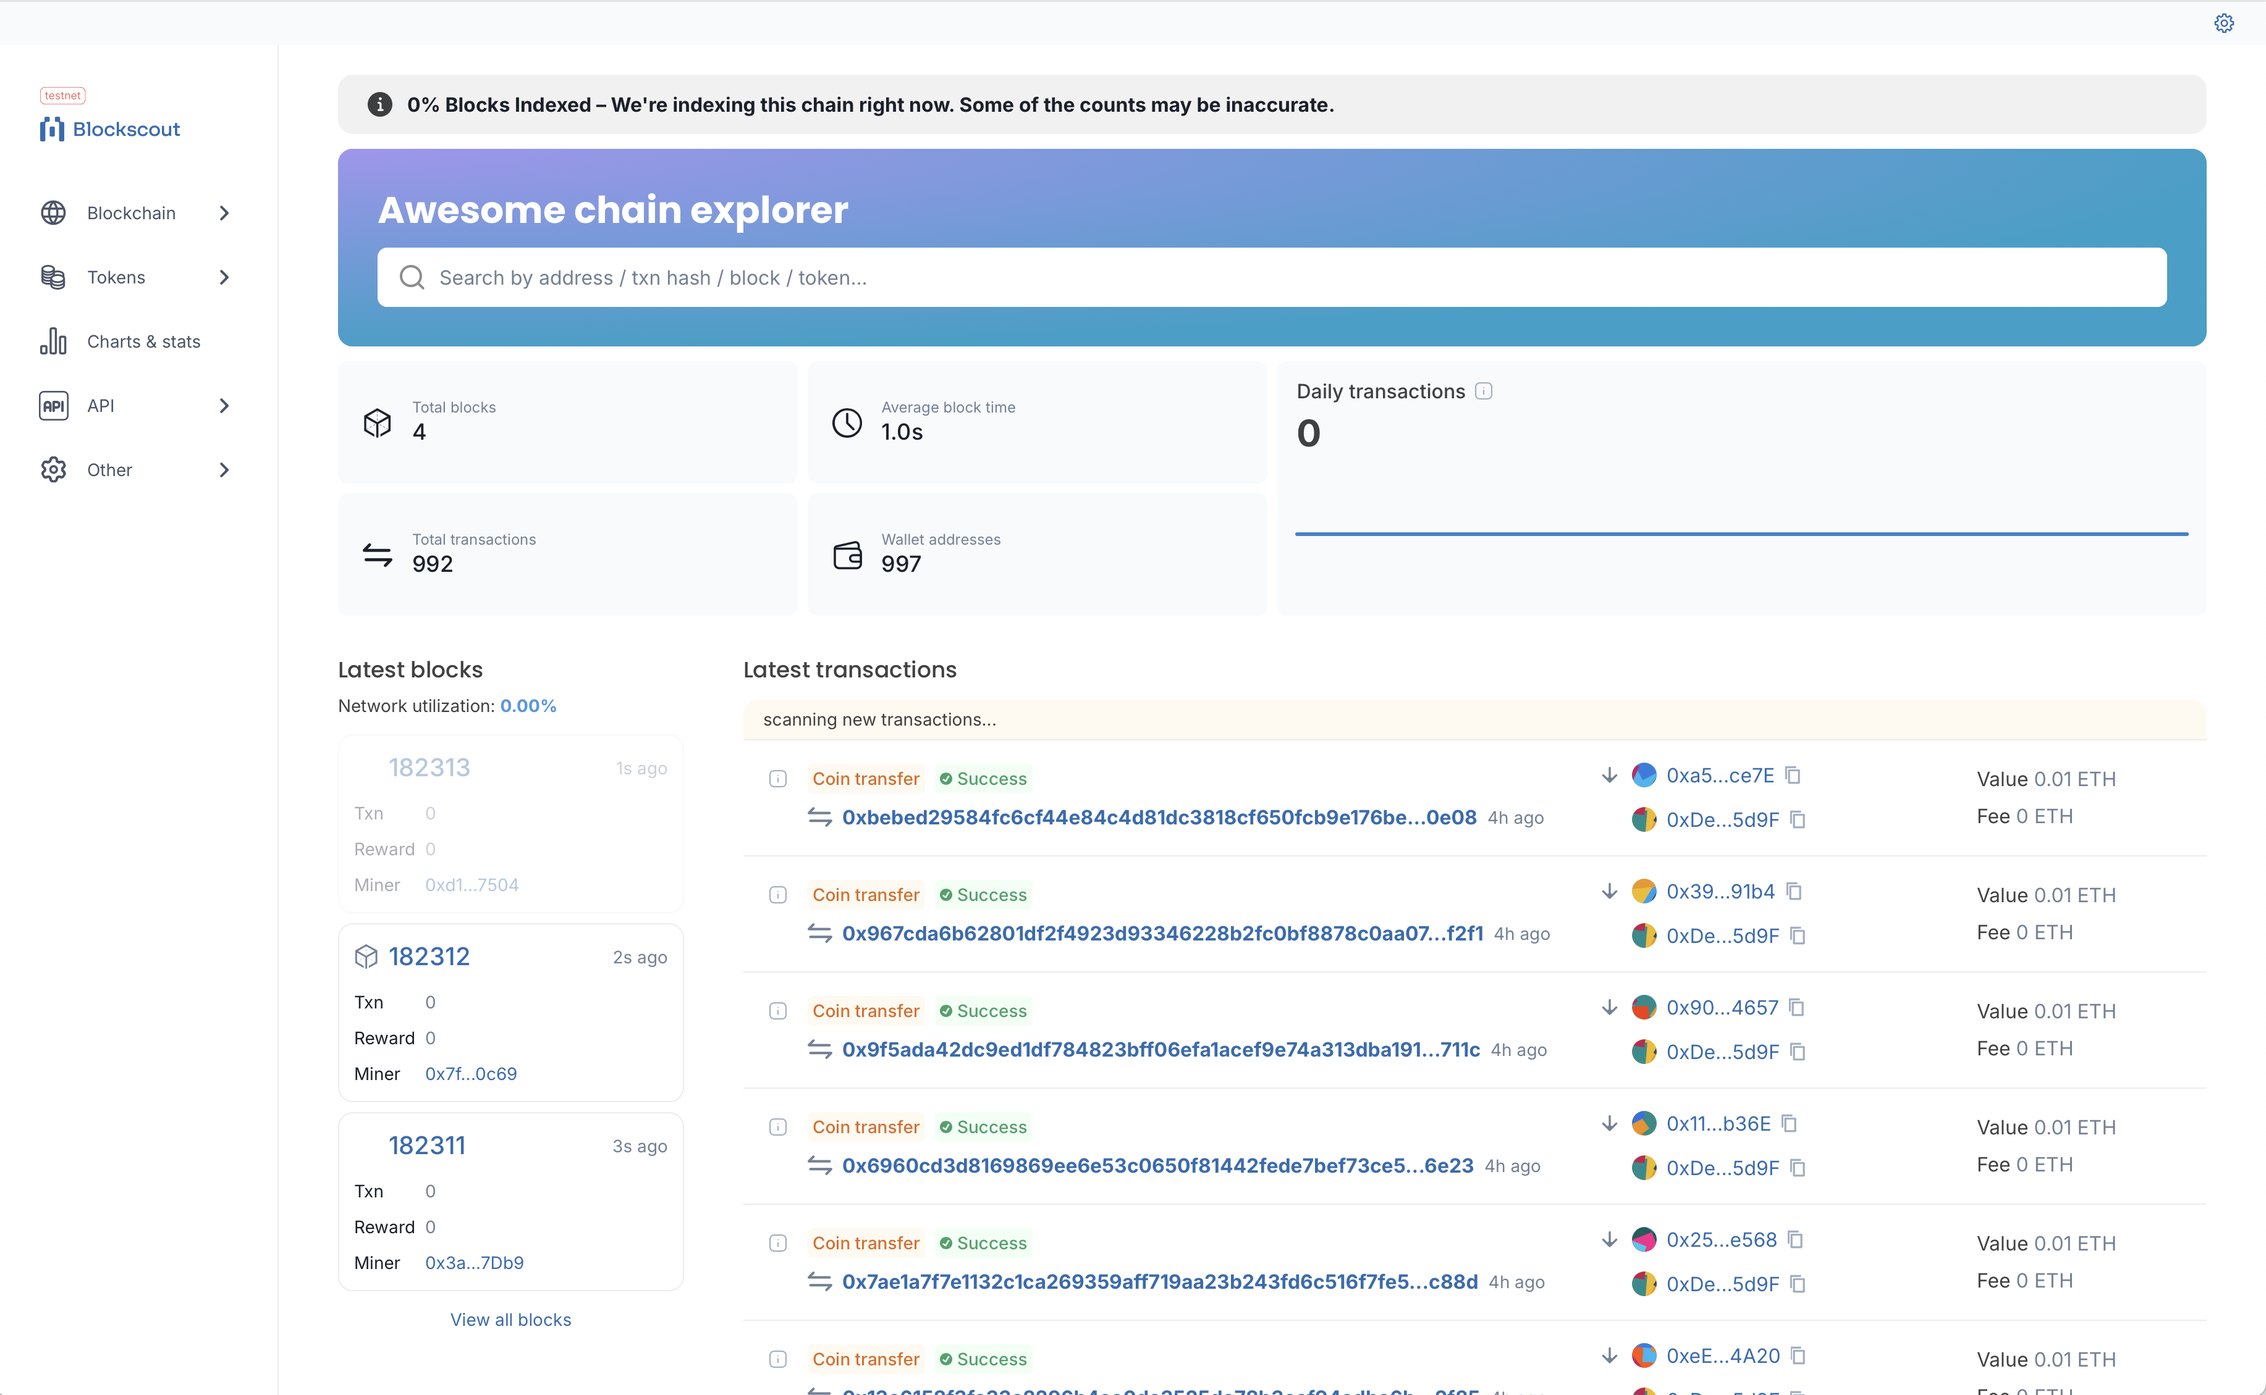
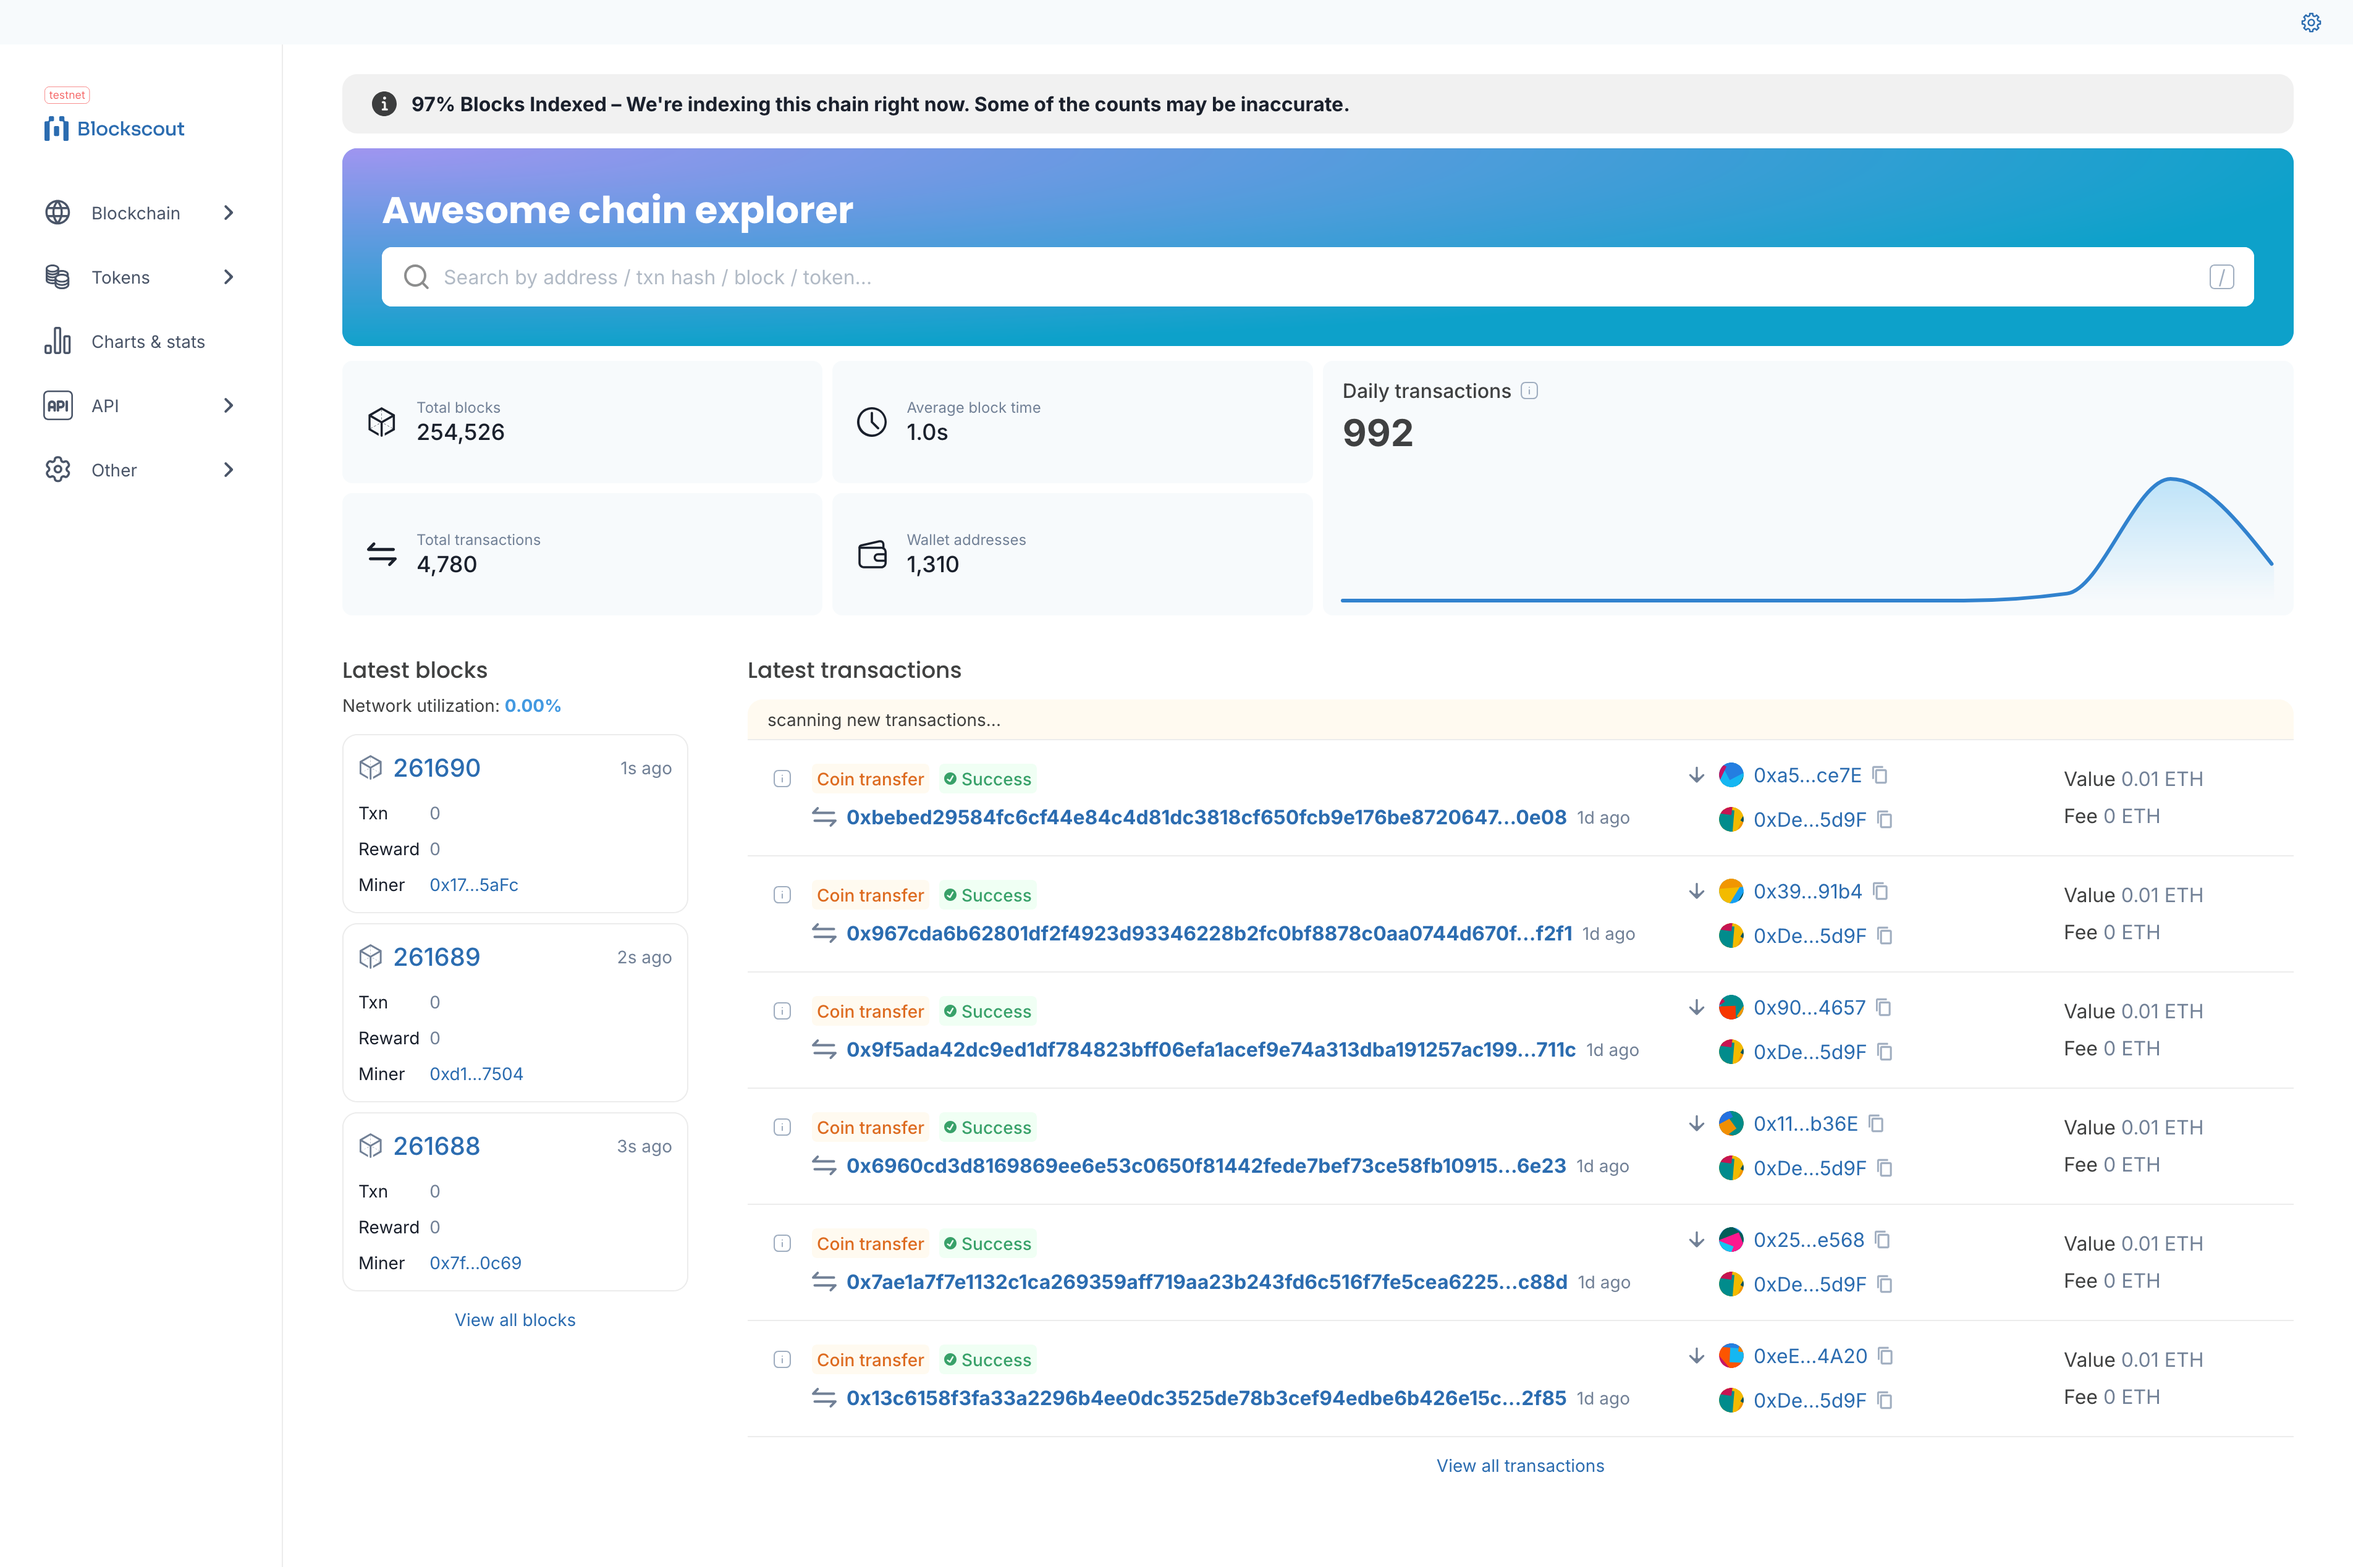
feat: setup blockscout stats

diff --git a/README.md b/README.md
@@ -1,13 +1,13 @@
 # N Chain
 
-Deploy IBFT Ethereum Private Network with Hyperledger Besu, Ethstats, Ethernal to AWS Cloud via Terraform
+Deploy IBFT Ethereum Private Network with Hyperledger Besu, Ethstats, Ethernal, Blockscout to AWS Cloud via Terraform
 
 ![route53](./arch/aws_arch.png)
 
 ## Network configuration
 - Ethereum Client: Besu
 - Ethereum Stats: Ethstats
-- Ethereum Explorer: Ethernal
+- Ethereum Explorer: Ethernal & Blockscout
 - Concensus: IBFT2.0
 - Deploy environment: AWS Cloud via Terraform
 - Gas price: 1000 Wei (0.000001 GWei) (default)
@@ -34,7 +34,7 @@ Deploy IBFT Ethereum Private Network with Hyperledger Besu, Ethstats, Ethernal t
 - 102 resources estimated cost: $424
 - Read more at [network_core/README.md](./network_core/README.md)
 
-## Setup Blockchain Explorer with Ethernal
+## Setup Blockchain Explorer with Ethernal and Blockscout
 
 - 46 resources estimated cost: $97
 - Read more at [network_tools/README.md](./network_tools/README.md)
@@ -55,6 +55,10 @@ Deploy IBFT Ethereum Private Network with Hyperledger Besu, Ethstats, Ethernal t
 - Stastics: https://stats.nhancv.com
   ![stats](./arch/demo/stats.png)
 
-- Explorer: https://scan.nhancv.com
+- Ethernal explorer: https://scan.nhancv.com
   ![explorer](./arch/demo/scan_overview.png)
   ![explorer](./arch/demo/scan_tx.png)
+
+- Blockscout explorer: https://blockscout.nhancv.com
+  ![blockscout](./arch/demo/blockscout.png)
+  ![blockscout](./arch/demo/blockscout_stats.png)
